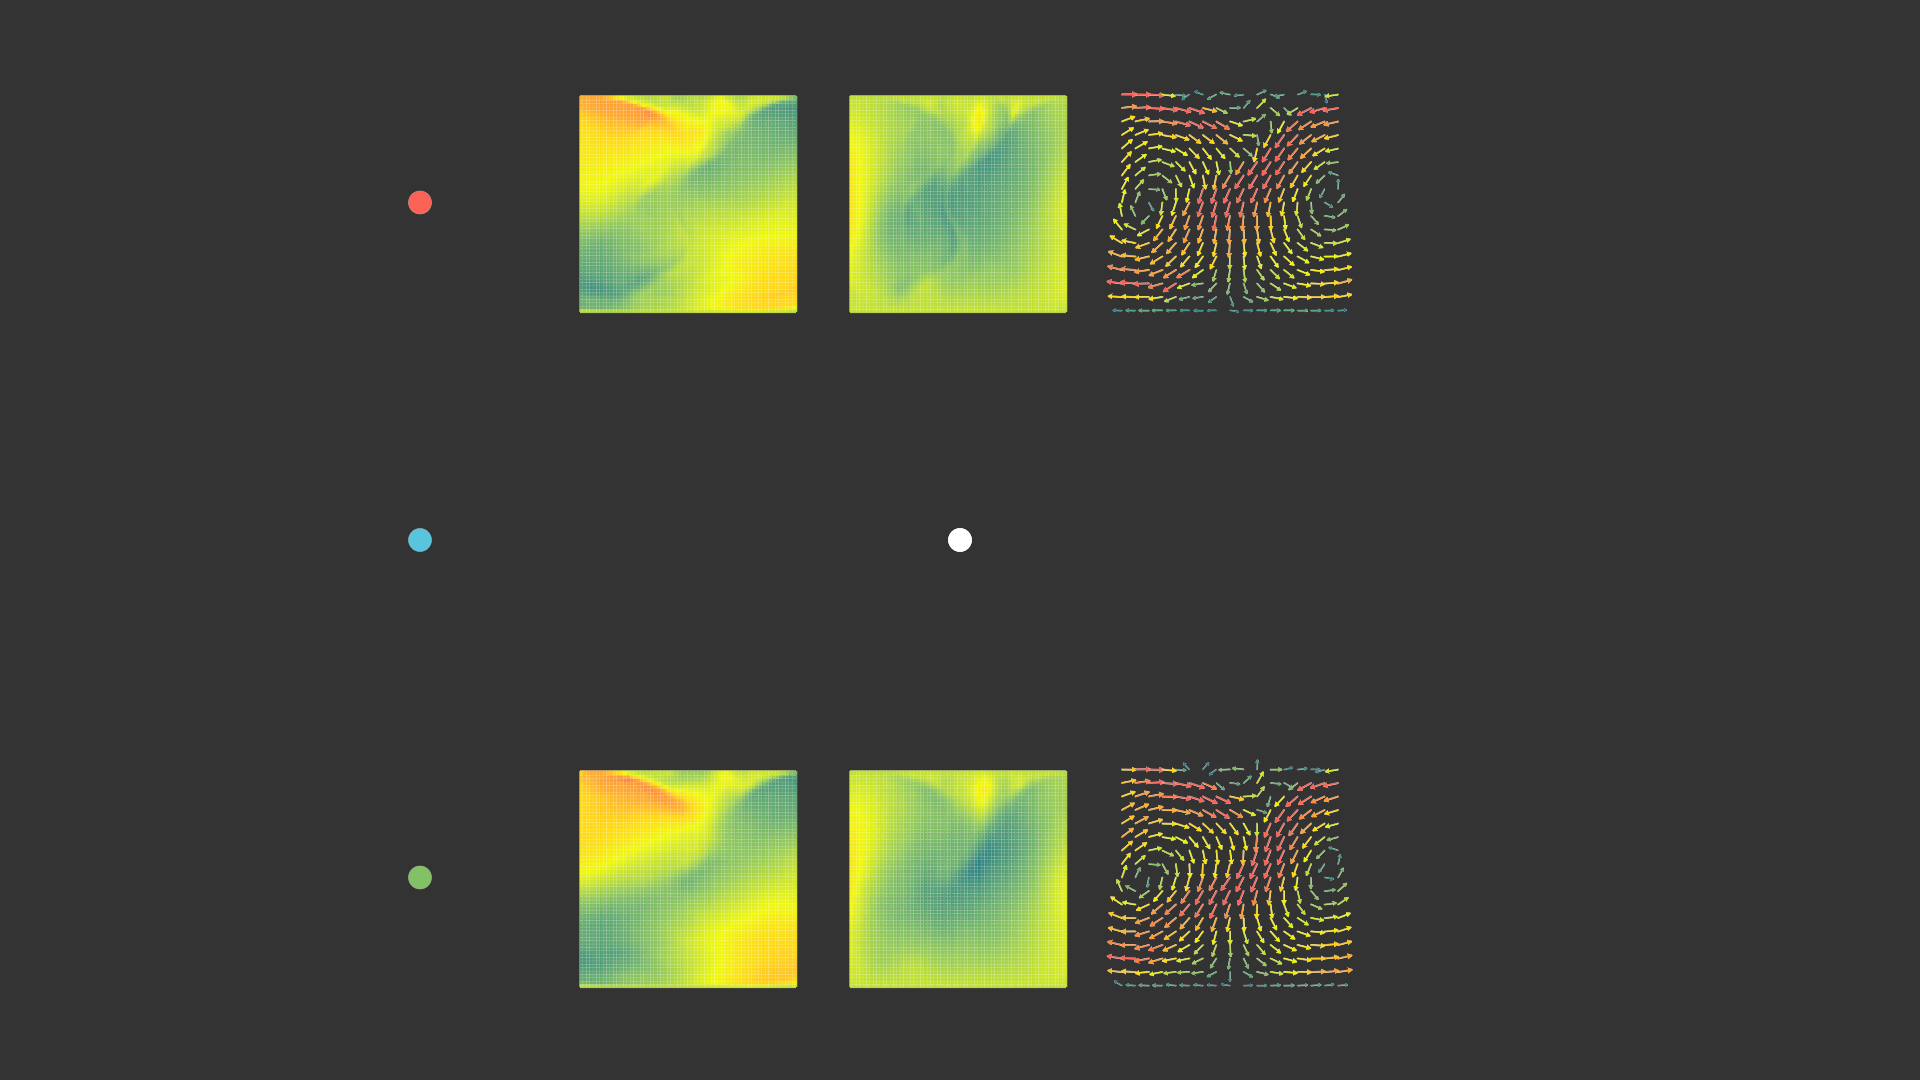
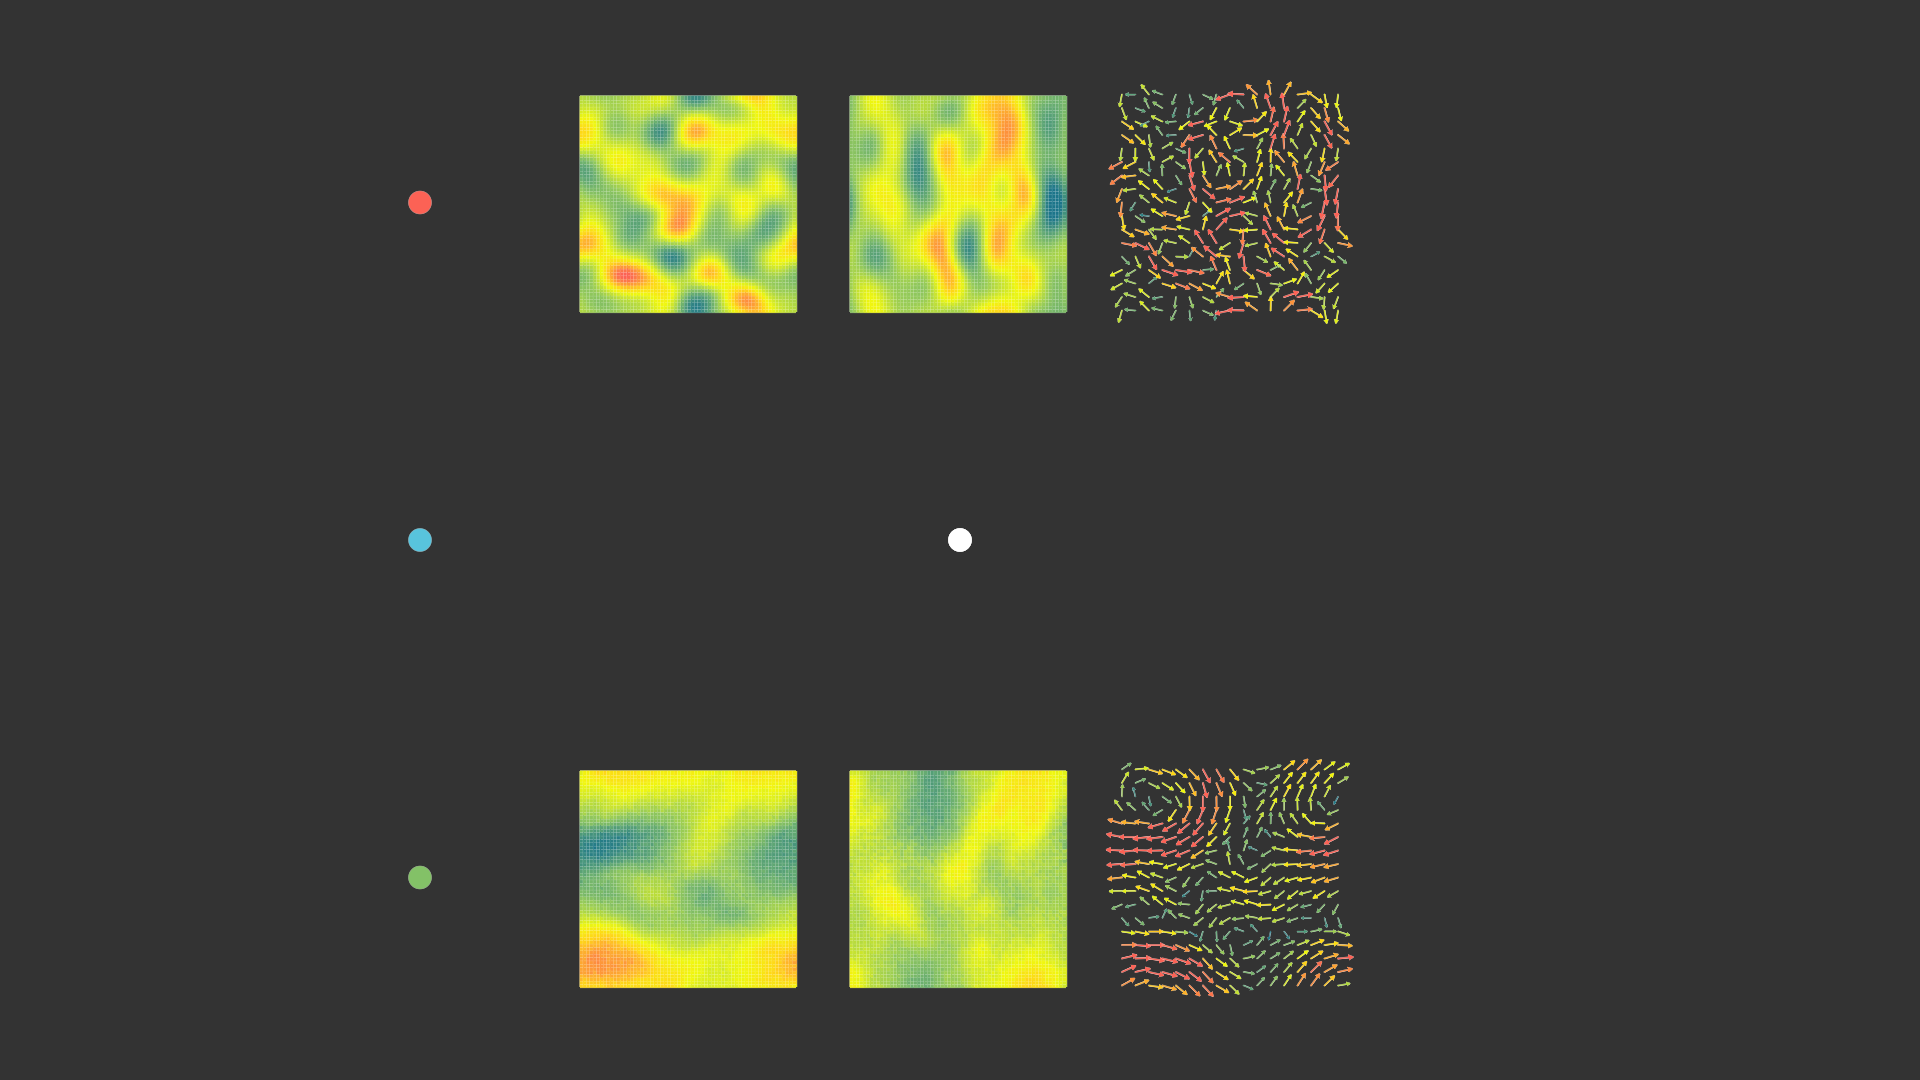
Use very small submask

Changed region(s): [[0.2812, 0.0611, 0.7188, 0.3056], [0.2812, 0.7028, 0.7188, 0.9167]]

diff --git a/src/visualize.py b/src/visualize.py
@@ -7,7 +7,7 @@ sys.path.append(os.getcwd())
 from model import *
 from util import *
 
-device = get_device(no_mps=False)
+device = get_device(no_mps=False )
 
 DIR = "../data/data_64/sample_"
 INDICES = range(6000, 7700)
@@ -53,7 +53,25 @@ class VisualizeSigma(Scene):
     def load_rand(self):
         index = np.random.random_integers(0, 550)
         ret = torch.load("../data/ensemble/" + str(index) + ".pt")[:, 0]
-        return torch.unsqueeze(ret.reshape(-1, ret.shape[-2], ret.shape[-1]), dim=0).to(device).float()
+        ret = torch.unsqueeze(ret.reshape(-1, ret.shape[-2], ret.shape[-1]), dim=0).to(device).float()
+        xs = ret[0, :18].clone()
+        ys = ret[0, 18:].clone()
+        ret[0, ::2] = xs
+        ret[0, 1::2] = ys
+        return ret
+
+        huge = []
+        for i in range(64):
+            index = np.random.random_integers(0, 550)
+            print(index)
+            ret = torch.load("../data/ensemble/" + str(index) + ".pt")[:, i]
+            ret = torch.unsqueeze(ret.reshape(-1, ret.shape[-2], ret.shape[-1]), dim=0).to(device).float()
+            xs = ret[0, :18].clone()
+            ys = ret[0, 18:].clone()
+            ret[0, ::2] = xs
+            ret[0, 1::2] = ys
+            huge.append(ret)
+        return torch.cat(huge)
 
     def model(self):
         model = Orthonet(input_channels=12,
@@ -74,127 +92,128 @@ class VisualizeSigma(Scene):
         base = model.base
         trans = model.transition
         query = model.query
+        model.train()
         # model.eval()
 
-        with torch.no_grad():
 
-            root = VGroup()
+        root = VGroup()
 
-            t_label = Dot().set_fill(RED, opacity=1).shift(4 * LEFT + 2.5 * UP)
-            xt_frame = Dot()
-            yt_frame = Dot()
-            t_frame = Dot()
-            t_axis = NumberPlane([-0.8, 0.8, 1], [-0.8, 0.8, 1])
+        t_label = Dot().set_fill(RED, opacity=1).shift(4 * LEFT + 2.5 * UP)
+        xt_frame = Dot()
+        yt_frame = Dot()
+        t_frame = Dot()
+        t_axis = NumberPlane([-0.8, 0.8, 1], [-0.8, 0.8, 1])
 
-            m_label = Dot().set_fill(BLUE, opacity=1).shift(4 * LEFT)
-            xm_frame = Dot()
-            ym_frame = Dot()
-            m_frame = Dot()
-            m_axis = NumberPlane([-0.8, 0.8, 1], [-0.8, 0.8, 1])
+        m_label = Dot().set_fill(BLUE, opacity=1).shift(4 * LEFT)
+        xm_frame = Dot()
+        ym_frame = Dot()
+        m_frame = Dot()
+        m_axis = NumberPlane([-0.8, 0.8, 1], [-0.8, 0.8, 1])
 
-            s_label = Dot().set_fill(GREEN, opacity=1).shift(4 * LEFT + 2.5 * DOWN)
-            xs_frame = Dot()
-            ys_frame = Dot()
-            s_frame = Dot()
-            s_axis = NumberPlane([-0.8, 0.8, 1], [-0.8, 0.8, 1])
+        s_label = Dot().set_fill(GREEN, opacity=1).shift(4 * LEFT + 2.5 * DOWN)
+        xs_frame = Dot()
+        ys_frame = Dot()
+        s_frame = Dot()
+        s_axis = NumberPlane([-0.8, 0.8, 1], [-0.8, 0.8, 1])
 
-            root.add(xt_frame, yt_frame, t_frame, t_label)
-            root.add(xm_frame, ym_frame, m_frame, m_label)
-            root.add(xs_frame, ys_frame, s_frame, s_label)
+        root.add(xt_frame, yt_frame, t_frame, t_label)
+        root.add(xm_frame, ym_frame, m_frame, m_label)
+        root.add(xs_frame, ys_frame, s_frame, s_label)
 
-            t = 0
-            fnum = -1
-            raw_frame = 0
-            xx = frames[:, :TOFFSET * 2].to(device)
-            error = base(xx)
-            samp = ran_sample(query, error,
-                       frames[:, 12:14]).cpu().data.numpy()
-            # p_value(model, im, prev_error, frames[:, 60:62])
-            pm, mask = mask_tensor(64)
+        t = 0
+        fnum = -1
+        raw_frame = 0
+        xx = frames[:, :12].to(device)
+        error = base(xx)
+        samp = ran_sample(query, error,
+                   frames[:, 12:14]).cpu().data.numpy()
+        # p_value(model, im, prev_error, frames[:, 60:62])
+        pm, mask = mask_tensor(64)
 
-            def update(m, dt):
-                nonlocal t, fnum, xx, error, samp, raw_frame
-                t += dt
-                raw_frame = int(t / (1 / 30))
-                prev = fnum
-                fnum = int(t / FRAME_DT)
+        def update(m, dt):
+            nonlocal t, fnum, xx, error, samp, raw_frame
+            t += dt
+            raw_frame = int(t / (1 / 30))
+            prev = fnum
+            fnum = int(t / FRAME_DT)
 
-                print("FNUM", fnum, fnum * 2 + 1 + TOFFSET * 2, frames.shape[1], fnum * 2 + 1 + TOFFSET * 2 >= frames.shape[1])
-                if fnum * 2 + 1 + TOFFSET * 2 >= frames.shape[1]:
-                    return
+            print("FNUM", fnum, fnum * 2 + 1 + TOFFSET * 2, frames.shape[1], fnum * 2 + 1 + TOFFSET * 2 >= frames.shape[1])
+            if fnum * 2 + 1 + TOFFSET * 2 >= frames.shape[1]:
+                return
 
-                if fnum > prev:
-                    xx = frames[:, :TOFFSET * 2].to(device)
-                    error = trans(error)
-                    samp = ran_sample(query, error,
-                                      frames[:, 2 * fnum + TOFFSET * 2: 2 * (fnum + 1) + TOFFSET * 2]).cpu().data.numpy()
-                    # p_value(model, im, prev_error,frames[:, 2 * fnum + TOFFSET * 2: 2 * (fnum + 1) + TOFFSET * 2])
-                else:
-                    samp = ran_sample(query, error,
-                                      frames[:,2 * fnum + TOFFSET * 2: 2 * (fnum + 1) + TOFFSET * 2]).cpu().data.numpy()
-
-                    sx = samp[0, 0]
-                    sy = samp[0, 1]
-
-                    xs_frame.become(frame("x samp", sx, ORIGIN)).shift(2 * LEFT + 2.5 * DOWN)
-                    ys_frame.become(frame("y samp", sy, ORIGIN)).shift(2.5 * DOWN)
-                    s_frame.become(vector_frame(s_axis, sx, sy)).shift(2 * RIGHT + 2.5 * DOWN)
-                    return
-
-                tx = frames[0, 2 * fnum + 0 + TOFFSET * 2].cpu().data.numpy()
-                ty = frames[0, 2 * fnum + 1 + TOFFSET * 2].cpu().data.numpy()
-
-                # real_im = im.cpu().data.numpy()
-                # mx = real_im[0, 0]
-                # my = real_im[0, 1]
-
-                sx = samp[0, 0]
-                sy = samp[0, 1]
-
-                print("mine rmse", fnum,
-                      np.sqrt(np.mean(np.square(samp[0] - frames[0, 2 * fnum + 0 + TOFFSET * 2: 2 * fnum + 2 + TOFFSET * 2].cpu().data.numpy()))))
-                # print("tfnt rmse", fnum,
-                #       np.sqrt(np.mean(np.square(
-                #           real_im[0] - frames[0, 2 * fnum + 0 + TOFFSET * 2: 2 * fnum + 2 + TOFFSET * 2].cpu().data.numpy()))))
-
-                xt_frame.become(frame("x true", tx, ORIGIN)).shift(2 * LEFT + 2.5 * UP)
-                yt_frame.become(frame("y true", ty, ORIGIN)).shift(2.5 * UP)
-                t_frame.become(vector_frame(t_axis, tx, ty)).shift(2 * RIGHT + 2.5 * UP)
-
-                # xm_frame.become(frame("x mean", mx, ORIGIN)).shift(2 * LEFT)
-                # ym_frame.become(frame("y mean", my, ORIGIN))
-                # m_frame.become(vector_frame(m_axis, mx, my)).shift(2 * RIGHT)
+            if fnum > prev:
+                error = trans(error)
+                samp = ran_sample(query, error,
+                                frames[:, 2 * fnum + TOFFSET * 2: 2 * (fnum + 1) + TOFFSET * 2]).cpu().data.numpy()
+                # p_value(model, im, prev_error,frames[:, 2 * fnum + TOFFSET * 2: 2 * (fnum + 1) + TOFFSET * 2])
+            else:
+                # samp = ran_sample(query, error,
+                #                   frames[:,2 * fnum + TOFFSET * 2: 2 * (fnum + 1) + TOFFSET * 2]).cpu().data.numpy()
                 #
-                xs_frame.become(frame("x samp", sx, ORIGIN)).shift(2 * LEFT + 2.5 * DOWN)
-                ys_frame.become(frame("y samp", sy, ORIGIN)).shift(2.5 * DOWN)
-                s_frame.become(vector_frame(s_axis, sx, sy)).shift(2 * RIGHT + 2.5 * DOWN)
+                # sx = samp[0, 0]
+                # sy = samp[0, 1]
+                #
+                # xs_frame.become(frame("x samp", sx, ORIGIN)).shift(2 * LEFT + 2.5 * DOWN)
+                # ys_frame.become(frame("y samp", sy, ORIGIN)).shift(2.5 * DOWN)
+                # s_frame.become(vector_frame(s_axis, sx, sy)).shift(2 * RIGHT + 2.5 * DOWN)
+                return
 
-                # m.become(Tex("Sigma Visualizer \\text{frame}=", str(fnum)).shift(3 * UP))
+            div = max((2 * fnum - len(frames[0])) // 2, 0)
+            mod = min(2 * fnum, len(frames[0]) - 2)
+            tx = frames[fnum, mod].cpu().data.numpy()
+            ty = frames[fnum, mod + 1].cpu().data.numpy()
 
-            def root_decomp(m, dt):
-                nonlocal t, fnum, xx, samp, raw_frame
-                t += dt
-                raw_frame = int(t / (1 / 30))
-                prev = fnum
-                fnum = int(t / FRAME_DT)
+            # real_im = im.cpu().data.numpy()
+            # mx = real_im[0, 0]
+            # my = real_im[0, 1]
 
-                sx = samp[0, 0].copy()
-                sy = samp[0, 1].copy()
+            sx = samp[0, 0]
+            sy = samp[0, 1]
 
-                if raw_frame < 64:
-                    sx[~pm[raw_frame]] = -5
-                    sy[~pm[raw_frame]] = -5
+            print("mine rmse", fnum,
+                  np.sqrt(np.mean(np.square(samp[0] - frames[0, 2 * fnum + 0 + TOFFSET * 2: 2 * fnum + 2 + TOFFSET * 2].cpu().data.numpy()))))
+            # print("tfnt rmse", fnum,
+            #       np.sqrt(np.mean(np.square(
+            #           real_im[0] - frames[0, 2 * fnum + 0 + TOFFSET * 2: 2 * fnum + 2 + TOFFSET * 2].cpu().data.numpy()))))
 
-                xs_frame.become(frame("x samp", sx, ORIGIN)).shift(2 * LEFT + 2.5 * DOWN)
-                ys_frame.become(frame("y samp", sy, ORIGIN)).shift(2.5 * DOWN)
-                s_frame.become(vector_frame(s_axis, sx, sy)).shift(2 * RIGHT + 2.5 * DOWN)
+            xt_frame.become(frame("x true", tx, ORIGIN)).shift(2 * LEFT + 2.5 * UP)
+            yt_frame.become(frame("y true", ty, ORIGIN)).shift(2.5 * UP)
+            t_frame.become(vector_frame(t_axis, tx, ty)).shift(2 * RIGHT + 2.5 * UP)
 
-                # m.become(Tex("Sigma Visualizer \\text{frame}=", str(fnum)).shift(3 * UP))
+            # xm_frame.become(frame("x mean", mx, ORIGIN)).shift(2 * LEFT)
+            # ym_frame.become(frame("y mean", my, ORIGIN))
+            # m_frame.become(vector_frame(m_axis, mx, my)).shift(2 * RIGHT)
+            #
+            xs_frame.become(frame("x samp", sx, ORIGIN)).shift(2 * LEFT + 2.5 * DOWN)
+            ys_frame.become(frame("y samp", sy, ORIGIN)).shift(2.5 * DOWN)
+            s_frame.become(vector_frame(s_axis, sx, sy)).shift(2 * RIGHT + 2.5 * DOWN)
 
-            self.add(root)
+            # m.become(Tex("Sigma Visualizer \\text{frame}=", str(fnum)).shift(3 * UP))
 
-            root.add_updater(update)
-            self.wait((frames.shape[1] - TOFFSET * 2) / 2 * FRAME_DT + 0.2)
+        def root_decomp(m, dt):
+            nonlocal t, fnum, xx, samp, raw_frame
+            t += dt
+            raw_frame = int(t / (1 / 30))
+            prev = fnum
+            fnum = int(t / FRAME_DT)
 
-            # root.add_updater(root_decomp)
-            # self.wait(2.5)
+            sx = samp[0, 0].copy()
+            sy = samp[0, 1].copy()
+
+            if raw_frame < 64:
+                sx[~pm[raw_frame]] = -5
+                sy[~pm[raw_frame]] = -5
+
+            xs_frame.become(frame("x samp", sx, ORIGIN)).shift(2 * LEFT + 2.5 * DOWN)
+            ys_frame.become(frame("y samp", sy, ORIGIN)).shift(2.5 * DOWN)
+            s_frame.become(vector_frame(s_axis, sx, sy)).shift(2 * RIGHT + 2.5 * DOWN)
+
+            # m.become(Tex("Sigma Visualizer \\text{frame}=", str(fnum)).shift(3 * UP))
+
+        self.add(root)
+
+        root.add_updater(update)
+        self.wait((frames.shape[1] - TOFFSET * 2) / 2 * FRAME_DT + 0.2)
+
+        # root.add_updater(root_decomp)
+        # self.wait(2.5)

diff --git a/src/model.py b/src/model.py
@@ -65,7 +65,6 @@ def ran_sample(model, pruning_error, expected):
 
             predicted = model(pruning_error, query)
             start = NormalDist().cdf(con_list[0])
-            start = 0.5
             delta = sample(predicted, start + (1 - 2 * start) * torch.rand((predicted.shape[0], *predicted.shape[2:]), device=expected.device))
 
             query[:, :2][mask2] = expected[mask2]
@@ -75,11 +74,11 @@ def ran_sample(model, pruning_error, expected):
 
             rmse.append(torch.mean(torch.square(output[0, :2][mask2[0]] - expected[0][mask2[0]])))
             rmse_1.append(torch.mean(torch.square(output[1:, :2][mask2[1:]] - expected[1:][mask2[1:]])))
-            print(f"RMSE 0 {i} {torch.sqrt(rmse[-1]):4f}")
-            print(f"RMSE 1 {i} {torch.sqrt(rmse_1[-1]):4f}")
+            print(f"RMSE single {i} {torch.sqrt(rmse[-1]):4f}")
+            print(f"RMSE batch  {i} {torch.sqrt(rmse_1[-1]):4f}")
 
-        print(f"RMSE main {torch.sqrt(torch.mean(torch.tensor(rmse))):4f}")
-        print(f"RMSE full {torch.sqrt(torch.mean(torch.tensor(rmse_1))):4f}")
+        print(f"RMSE main [single] {torch.sqrt(torch.mean(torch.tensor(rmse))):4f}")
+        print(f"RMSE full [batch ] {torch.sqrt(torch.mean(torch.tensor(rmse_1))):4f}")
 
         return output[:1, :2]
 
@@ -135,14 +134,15 @@ def p_value(model, mu, pruning_error, y_true):
             mask4 = torch.tile(real_mask, (4, 1, 1))
             query[:, :2][real_prev] = y_true[real_prev]
             query[:, 2:][real_prev] = y_true[real_prev]
-            query[0, :2][real_prev[0]] = output[0, :2][real_prev[0]]
-            query[0, 2:][real_prev[0]] = output[0, :2][real_prev[0]]
+            # query[0, :2][real_prev[0]] = output[0, :2][real_prev[0]]
+            # query[0, 2:][real_prev[0]] = output[0, :2][real_prev[0]]
 
             # compute query
             query[mask4] = -query[mask4]
 
             predicted = model._modules['module'].orthonet(pruning_error, query)
             start = NormalDist().cdf(con_list[0])
+            start = 0.5
             delta = sample(predicted, start + (1 - 2 * start) * torch.rand((predicted.shape[0], *predicted.shape[2:]),
                                                                            device=mu.device))
 

diff --git a/src/penalty.py b/src/penalty.py
@@ -31,7 +31,7 @@ class BigErrorLoss(torch.nn.Module):
 
         # compute query
         # for the mask, take a submask of which elements of the ensemble we want to use in doing the interval.
-        submask = max(1, int(torch.rand(1) * expected.shape[0]))
+        submask = max(1, 4)
         ensemble = expected[:, :submask]
         mins = torch.min(ensemble, dim=1).values
         maxs = torch.max(ensemble, dim=1).values
@@ -47,12 +47,15 @@ class BigErrorLoss(torch.nn.Module):
         predicted = orthonet(actual_pruning, query)
         compare = torch.mean(expected, dim=1)[mask2] # eliminate ensemble
 
-        # anyways, think about how to generate proper p values if we have everything?
-        # first level is very easy
-        # we can also do interval?, somewhat easily?, but is that what we really want?
-        # i think that's the best we're going to get...
-        # we can also do the general hammer loss
-
+        # ok, so problem with intervals is that they're just going to become so wide that all you're going to get
+        # is just freaking noise
+        # on the other hand, I can't really figure out why the first few frames are not very varied?
+        # again, probably has to do with the fact that it's not
+        # really respecting the query as a lot of useful information
+        # so we need to make the query very informative
+        # so you ideally want to some level of clustering...
+        # well if we just do really really small intervals on things that are super close together?
+        # maybe that will work...
         ensemble = torch.sort(ensemble, dim=1).values
 
         for i, c in enumerate(con_list):

diff --git a/src/run_model.py b/src/run_model.py
@@ -35,8 +35,13 @@ test_indices = list(range(7700, 9800))
 
 def load_rand():
     index = np.random.random_integers(0, 550)
-    ret = torch.load(train_direc + str(index) + ".pt")[:, 0]
-    return torch.unsqueeze(ret.reshape(-1, ret.shape[-2], ret.shape[-1]), dim=0).to(device).float()
+    ret = torch.load("../data/ensemble/" + str(index) + ".pt")[:, 0]
+    ret = torch.unsqueeze(ret.reshape(-1, ret.shape[-2], ret.shape[-1]), dim=0).to(device).float()
+    xs = ret[0, :18].clone()
+    ys = ret[0, 18:].clone()
+    ret[0, ::2] = xs
+    ret[0, 1::2] = ys
+    return ret
 
 
 if __name__ == '__main__':
@@ -86,7 +91,6 @@ if __name__ == '__main__':
         torch.cuda.empty_cache()
 
         model.train()
-        print(xx.shape)
         error = base(xx)
         ran_sample(query, error, frames[:, 12:14])
         # prev_error = torch.zeros((64, 8, frames.shape[-2], frames.shape[-1]), device=device)
@@ -106,7 +110,7 @@ if __name__ == '__main__':
             min_mse = valid_emse[-1]
             best_model = model
             torch.save(best_model, "model.pt")
-            torch.save(list(x.cpu().data.numpy().copy() for x in best_model.parameters()), 'model_state.pt')
+            torch.save(list(x.cpu().detach().numpy().copy() for x in best_model.parameters()), 'model_state.pt')
             # test_set = Dataset(test_indices, input_length + time_range - 1, 40, 60, test_direc, True)
             # test_loader = data.DataLoader(test_set, batch_size=batch_size, shuffle=False, num_workers=8)
             # preds, trues, loss_curve = test_epoch(test_loader, best_model, loss_fun, error_fun)

diff --git a/src/train.py b/src/train.py
@@ -72,7 +72,7 @@ def train_epoch(train_loader, base, trans, query, optimizer, hammer, c_fun, e_lo
 
         for f, y in enumerate(yy.transpose(0, 1)):
             dloss = e_loss_fun(query, error, y, c_fun, hammer, f)
-            e_loss += dloss * (yy.shape[1] - f) / yy.shape[1]
+            e_loss += dloss
 
             if f != yy.shape[1] - 1:
                 error = trans(error)

diff --git a/src/util.py b/src/util.py
@@ -3,7 +3,7 @@ import numpy as np
 from functools import cache
 
 
-def get_device(no_mps=True):
+def get_device(no_mps=False):
     if no_mps:
         return torch.device("cuda" if torch.cuda.is_available() else "cpu")
     # mps seems to have a memory leak
